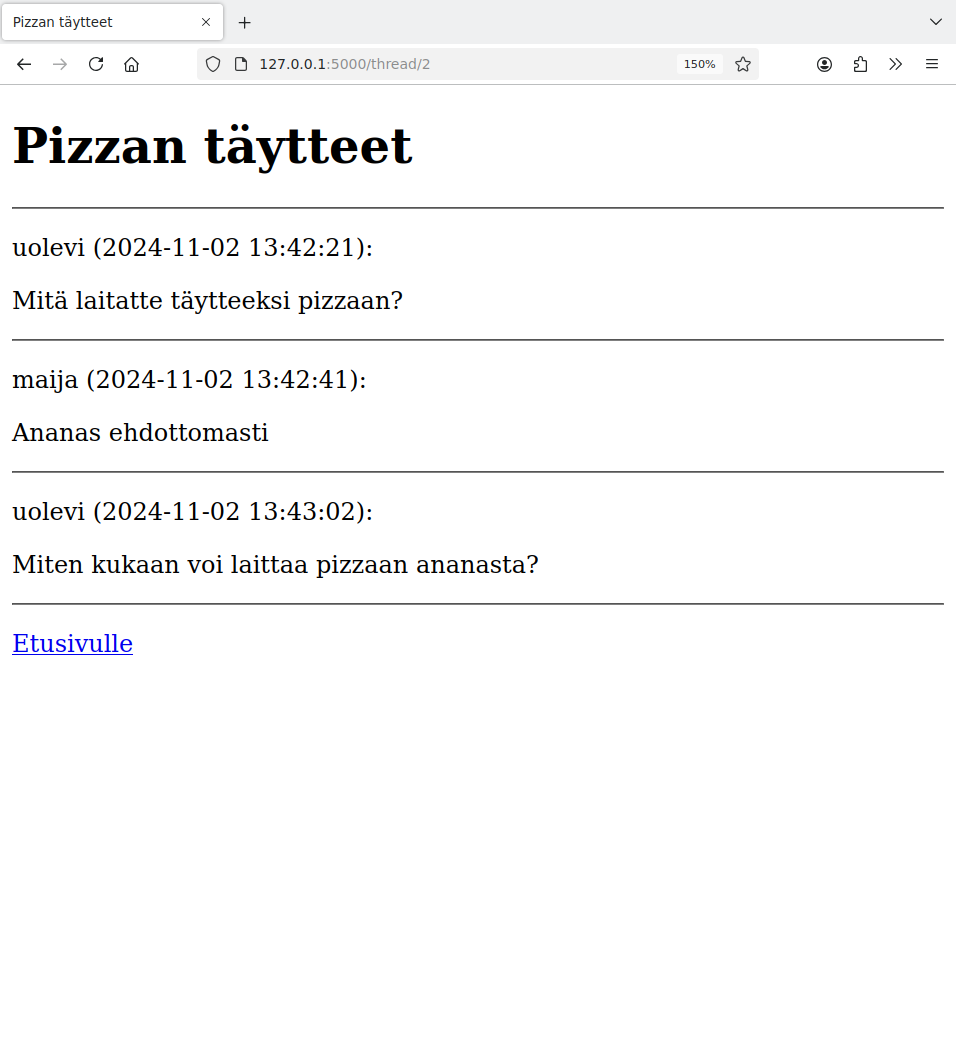
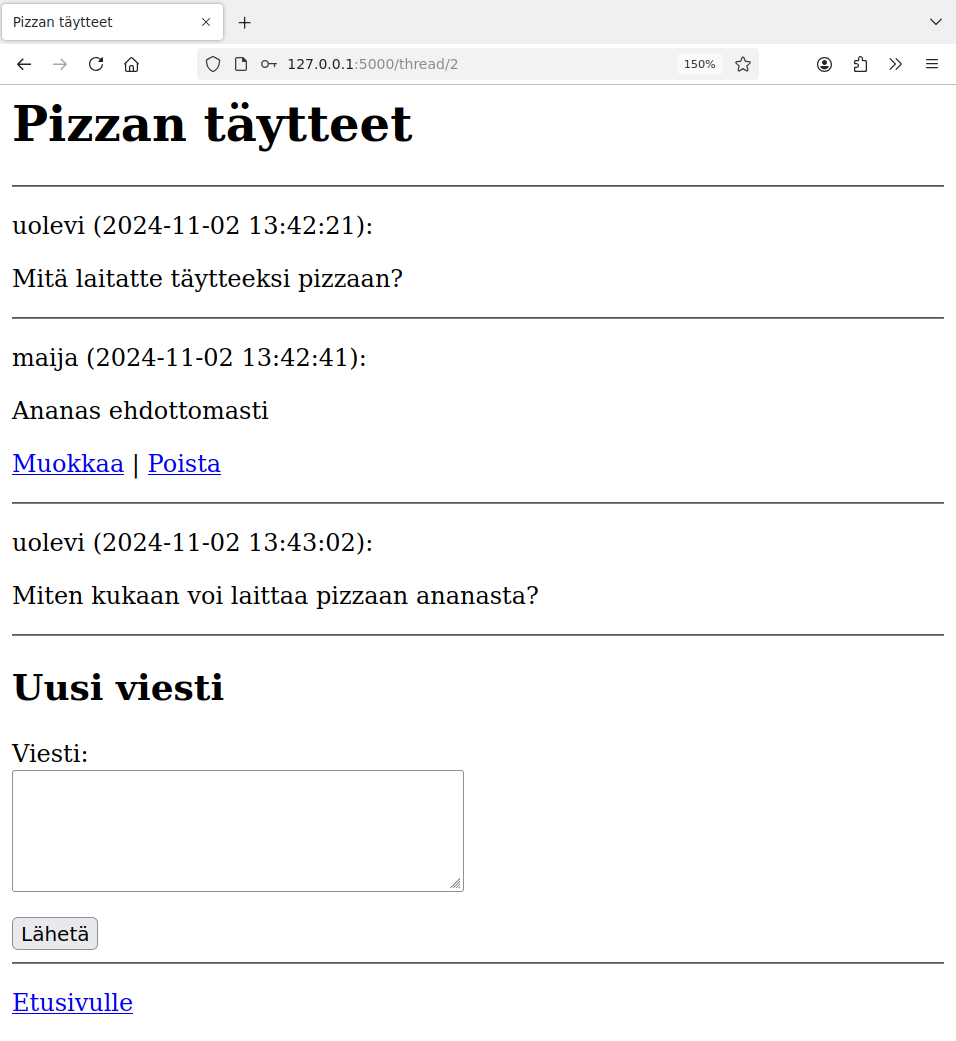
Paranna osaa 4

diff --git a/_material/04.md b/_material/04.md
@@ -112,7 +112,7 @@ index.html
   {% endfor %}{% endraw %}
 ```
 
-Tässä silmukka käy läpi listassa `threads` olevat ketjut. Jokaisen viestin kohdalla näytetään linkki muotoa `/thread/id`, jonka kautta ketjun pystyy lukemaan. Lisäksi näytetään viestien määrä ja uusimman viestin lähetysaika.
+Tässä silmukka käy läpi listassa `threads` olevat ketjut. Jokaisen ketjun kohdalla näytetään linkki muotoa `/thread/id`, jonka kautta ketjun pystyy lukemaan. Lisäksi näytetään viestien määrä ja uusimman viestin lähetysaika.
 
 SQL-kyselyn tulostaulun sarakkeiden nimiä voidaan käyttää sivupohjassa yllä olevalla tavalla. Esimerkiksi `t.title` tuottaa tulostauluun sarakkeen `title`, johon viitataan sivupohjassa `thread.title`. Vastaavasti `COUNT(m.id) total` tuottaa tulostauluun sarakkeen `total`, johon viitataan sivupohjassa `thread.total`.
 
@@ -170,12 +170,12 @@ def add_thread(title, content, user_id):
     return thread_id
     
 def add_message(content, user_id, thread_id):
-    sql = """INSERT INTO messages (content, sent_at, user_id, thread_id) VALUES
-             (?, datetime('now'), ?, ?)"""
+    sql = """INSERT INTO messages (content, sent_at, user_id, thread_id)
+             VALUES (?, datetime('now'), ?, ?)"""
     db.execute(sql, [content, user_id, thread_id])
 ```
 
-Funktio `add_thread` lisää ensin ketjun tauluun `threads` ja hakee lisätyn ketjun id-numeron funktiolla `last_insert_id`. Tämän jälkeen funktio kutsuu vielä funktiota `add_message`, joka lisää ketjun ensimmäisen viestin tietokantaan. Tätä funktiota käytetään myöhemmin myös ketjun viestien lisäämisessä.
+Funktio `add_thread` lisää ensin ketjun tauluun `threads` ja hakee lisätyn ketjun id-numeron funktiolla `last_insert_id`. Tämän jälkeen funktio kutsuu vielä funktiota `add_message`, joka lisää ketjun ensimmäisen viestin tietokantaan. Funktiota `add_message` käytetään myöhemmin myös ketjun viestien lisäämisessä.
 
 ## Viestien käsittely
 
@@ -236,7 +236,7 @@ thread.html
   {% endfor %}{% endraw %}
 ```
 
-Tässä silmukka käy läpi listassa `messages` olevat viestit ja näyttää kunkin viestin tiedot ja sisällön. Jos käyttäjä on kirjautunut sisään, viestin yhteydessä näytetään myös linkit, joiden kautta voi muokata viestiä tai poistaa viestin.
+Tässä silmukka käy läpi listassa `messages` olevat viestit ja näyttää kunkin viestin tiedot ja sisällön. Jos viestin lähettänyt käyttäjä on kirjautunut sisään, viestin yhteydessä näytetään myös linkit, joiden kautta hän voi muokata viestiä tai poistaa viestin.
 
 Uusi viesti lähetetään seuraavan lomakkeen kautta:
 
@@ -324,7 +324,7 @@ edit.html
   </form>{% endraw %}
 ```
 
-Aiemmissa lomakkeissa tekstialue on ollut tyhjä, mutta tässä lomakkeessa on valmiina viestin vanha sisältö. Tämä on käyttäjälle mukava tapa toteuttaa viestin muokkaaminen. Lomakkeen käsittelijä näyttää tältä:
+Aiemmissa lomakkeissa tekstialue on ollut tyhjä, mutta tässä lomakkeessa on valmiina viestin vanha sisältö. Lomakkeen käsittelijä näyttää tältä:
 
 {: .code-title }
 app.py
@@ -344,7 +344,7 @@ def edit_message(message_id):
 
 Tässä käsittelijässä on kaksi osaa, koska sama osoite `/edit/id` sekä näyttää viestin muokkauslomakkeen että käsittelee lomakkeen lähetyksen.
 
-Jos viestipyynnön metodi on `GET`, tämä tarkoittaa, että käyttäjä on sivulla `/edit/id` ja tulee näyttää muokkauslomake. Jos taas metodi on `POST`, lomake on lähetetty ja se tulee käsitellä. Jälkimmäisessä tapauksessa funktio `update_message` päivittää viestin sisällön:
+Jos viestipyynnön metodi on `GET`, tämä tarkoittaa, että käyttäjä on sivulla `/edit/id` ja tulee näyttää muokkaussivu. Jos taas metodi on `POST`, muokkaussivun lomake on lähetetty ja lomakkeen tiedot tulee käsitellä. Jälkimmäisessä tapauksessa funktio `update_message` päivittää viestin sisällön:
 
 {: .code-title }
 forum.py
@@ -360,7 +360,7 @@ Parametri lomakkeesta
 
 Kaksi tavallista tapaa lähettää parametri (kuten id-numero) lomakkeesta on välittää parametri sivun osoitteessa tai käyttää lomakkeessa piilokenttää (`<input type="hidden">`).
 
-Äskeisessä lomakkeessa parametri on välitetty sivun osoitteessa `form`-elementin `action`-attribuutissa. Osoitteena on `{% raw %}/edit/{{ message.id }}{% endraw %}`, jolloin parametri `message.id` välittyy käsittelijälle.
+Äskeisessä lomakkeessa parametri (viestin id-numero) on välitetty sivun osoitteessa `form`-elementin `action`-attribuutissa. Osoitteena on `{% raw %}/edit/{{ message.id }}{% endraw %}`, jolloin parametri `message.id` välittyy käsittelijälle.
 
 Toinen tapa olisi antaa osoite ilman parametria muodossa `/edit` ja lisätä lomakkeeseen seuraava piilokenttä, joka välittää parametrin:
 
